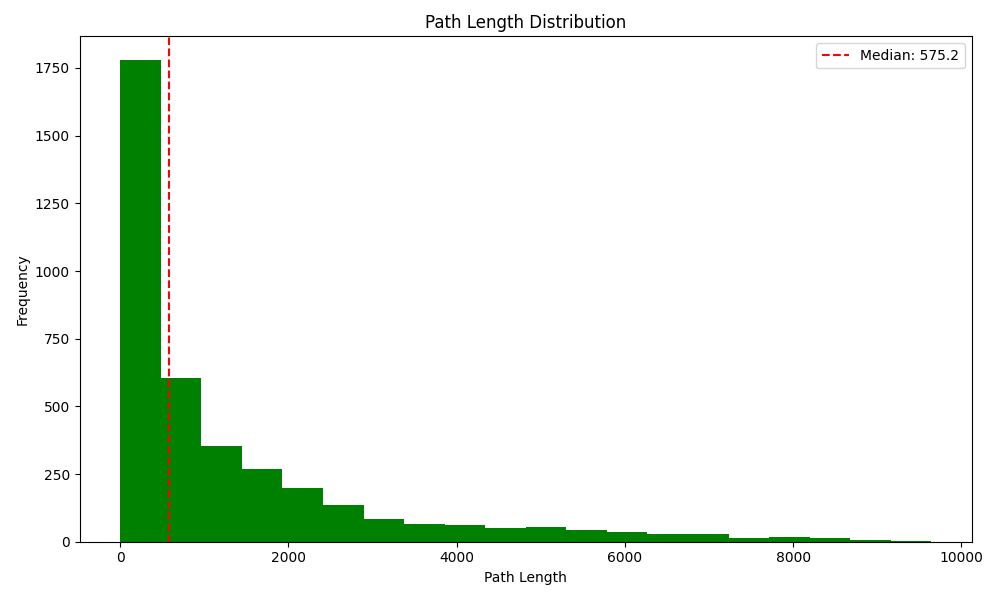
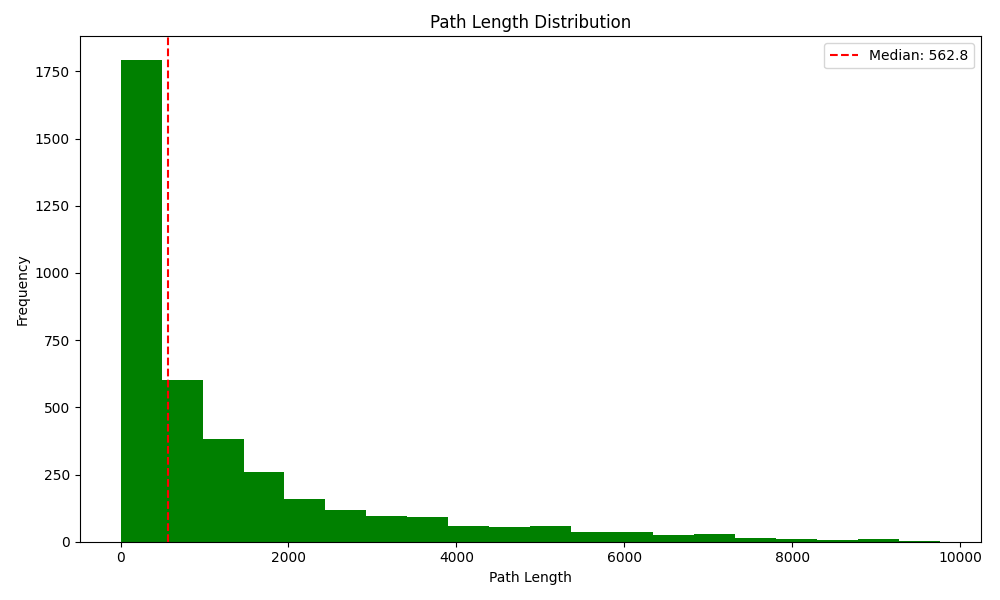
disjoint nodes > 70

diff --git a/bogoDB/candidate_submission/optimize_graph.py b/bogoDB/candidate_submission/optimize_graph.py
@@ -103,8 +103,8 @@ def optimize_graph(
         # This is the node next in the line
         next_node = (int(node) + 1) % 500
         new_edge = {next_node: 1}
-        if next_node != 0 and int(node) > 50:
-            new_edge[0] = 0.4
+        if int(node) > 70:
+            new_edge = {0: 1}
         optimized_graph[node] = new_edge
     # =============================================================
     #

diff --git a/solution.md b/solution.md
@@ -3,14 +3,30 @@
 
 ### Approach & Analysis
 
-[Describe how you analyzed the query patterns and what insights you found]
+This is supported by the charts in query_distribution.png show what seems to be a fairly quickly exponentially decreasing (the pattern is more clear after I increased each test to look at 5000 queries).
+function where smaller numbers are queried more often than larger numbers.  The file generate_initial_data.py gives the distribution of queries which is:
+exp_values = np.random.exponential(scale=1 / lambda_param, size=num_queries).
+In constants.py, we also see that lambda_param is 0.1. Thus, we are sampling
+from the distribution $0.1*e^{-0.1x}$. 
 
-generate_initial_data.py gives the distribution of queries which is:
-exp_values = np.random.exponential(scale=1 / lambda_param, size=num_queries)
+The ideal random walk would go from $0,1,2,...,499$ because that's the order of most likely to be queried to least likely to be queried.
+However, we can't choose our starting node so probably the best we can do is $n, 0,1,2,...,499$ where $n$ is the starting node (though you might run into loops).
+
+The probability of querying a node greater than n is approximately 
+$\int_{n}^{500} 0.1e^{-0.1x)dx$. For $n > 100$, this integral is around $10^{-5}$, so we don't actually care too much
+being able to reach nodes with large numbers as they're queried so rarely. If we start on a large number, we want to get
+to the $0$ node as quickly as possible, so we want a lot of nodes pointing towards $0$ node.
+
 
 ### Optimization Strategy
 
-[Explain your optimization strategy in detail]
+I’m being assessed on two metrics being the success rate and the median path length, where
+$$\text{path_multiplier} = \log(1+ \frac{\text{random_median}}{\text{optimized_median}})$$
+My combined score is just $optimized rate * (1+path_multiplier)$.
+
+Thus, my goal is to optimize for the median path length while maintaining a high overall success rate. 
+
+
 
 ### Implementation Details
 
